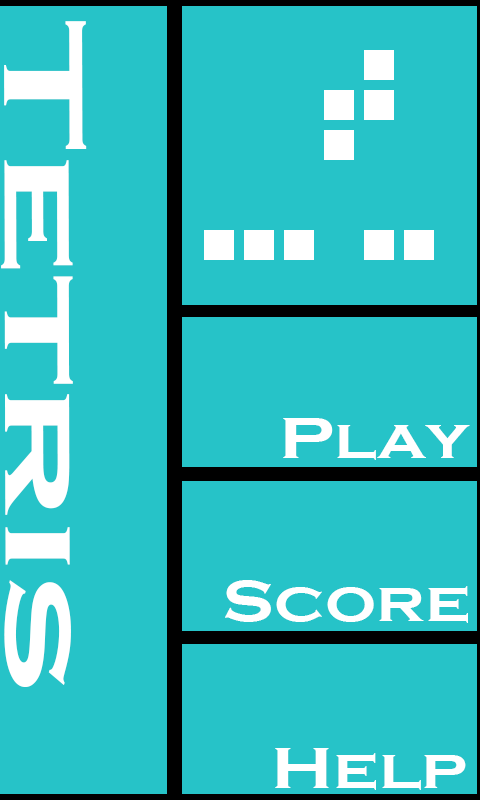
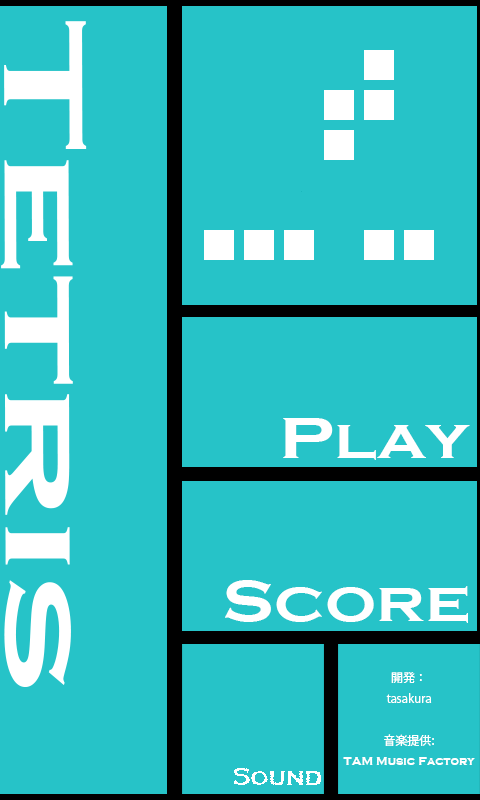
サウンドon,off機能追加

Changed region(s): [[0.5, 0.7812, 1.0, 1.0], [0.8125, 0.8125, 0.9062, 0.875]]

diff --git a/src/com/badlogic/androidgames/framework/game/TopMenuScreen.java b/src/com/badlogic/androidgames/framework/game/TopMenuScreen.java
@@ -3,6 +3,7 @@ package com.badlogic.androidgames.framework.game;
 import java.util.List;
 
 import android.graphics.Color;
+import android.util.Log;
 
 import com.badlogic.androidgames.framework.Game;
 import com.badlogic.androidgames.framework.Graphics;
@@ -13,7 +14,7 @@ public class TopMenuScreen extends Screen {
 
 	public TopMenuScreen(Game game) {
 		super(game);
-		Utils.soundEnabled = true;
+		Log.d("Flag", ""+Utils.soundEnabled);
 	}
 
 	@Override
@@ -22,7 +23,6 @@ public class TopMenuScreen extends Screen {
 		game.getInput().getKeyEvents();
 
 		int len = touchEvents.size();
-
 		for (int i = 0; i < len; i++) {
 			TouchEvent event = touchEvents.get(i);
 			if (event.type == TouchEvent.TOUCH_UP) {
@@ -36,9 +36,13 @@ public class TopMenuScreen extends Screen {
 					if (Utils.soundEnabled)
 						Assets.sound_enter.play(1);
 				}
-				if (inBounds(event, 183, 644, 290, 150)) {
-					if (Utils.soundEnabled)
+				if (inBounds(event, 183, 644, 142, 644)) {
+					if (Utils.soundEnabled) 
+						Utils.soundEnabled = false;
+					else {
+						Utils.soundEnabled = true;
 						Assets.sound_enter.play(1);
+					}
 				}
 			}
 		}
@@ -49,11 +53,15 @@ public class TopMenuScreen extends Screen {
 	public void present(float deltaTime) {
 		Graphics g = game.getGraphics();
 		g.drawPixmap(Assets.image_top, 0, 0);
-		
-		/*touch判定*/
-//		g.drawRect(180, 315, 300, 155, Color.RED, 100);
-//		g.drawRect(180, 481, 300, 155, Color.RED, 100);
-//		g.drawRect(180, 644, 300, 155, Color.RED, 100);
+		if (Utils.soundEnabled)
+			g.drawPixmap(Assets.sound_on, 210, 660);
+		else 
+			g.drawPixmap(Assets.sound_off, 210, 660);
+		/* touch判定 */
+		// g.drawRect(180, 315, 300, 155, Color.RED, 100);
+		// g.drawRect(180, 481, 300, 155, Color.RED, 100);
+		// g.drawRect(180, 644, 300, 155, Color.RED, 100);
+		// g.drawRect(183, 644, 142, 644, Color.RED, 100);
 	}
 
 	private boolean inBounds(TouchEvent event, int x, int y, int width,

diff --git a/src/com/badlogic/androidgames/framework/game/PlayScreen.java b/src/com/badlogic/androidgames/framework/game/PlayScreen.java
@@ -5,7 +5,6 @@ import java.util.Random;
 
 import android.graphics.Color;
 import android.graphics.Point;
-import android.util.Log;
 import android.view.MotionEvent;
 
 import com.badlogic.androidgames.framework.Game;
@@ -136,7 +135,6 @@ public class PlayScreen extends Screen {
 			}
 		}
 
-		world.update(deltaTime);
 		boolean isFixed = block.move(Block.DOWN, deltaTime);
 		if (isFixed) {
 			nextBlock[0] = nextBlock[1];
@@ -251,6 +249,12 @@ public class PlayScreen extends Screen {
 		for (int i = 0; i < list_score.length; i++)
 			g.drawPixmap(fonts_number[list_score[i]], x_score + (i * 45) + 10,
 					25);
+
+		// Line
+		for (int i = 0; i < 13; i++) {
+			g.drawLine(5, 120 + (39 * i), 471, 120 + (39 * i), 1, Color.WHITE);
+			g.drawLine(42 + (39 * i), 81, 42 + (39 * i), 625, 1, Color.WHITE);
+		}
 	}
 
 	private void drawReadyUI() {
@@ -262,6 +266,7 @@ public class PlayScreen extends Screen {
 		Graphics g = game.getGraphics();
 		world.draw(g);
 		block.draw(g);
+
 		if (world.isGameover())
 			state = GameState.GameOver;
 

diff --git a/src/com/badlogic/androidgames/framework/game/World.java b/src/com/badlogic/androidgames/framework/game/World.java
@@ -9,16 +9,12 @@ public class World {
 	static final int COL = 14; // 横
 	static final int ROW = 15; // 縦
 	static final int TILE_SIZE = 38; // マスのサイズ
-	static final int SCORE_INCREMENT = 10;
-	static final float TICK_INITIAL = 0.5f;
-	static float tick = TICK_INITIAL; // 更新速度
 	private int fields[][];
 	private int field_images[][];
 	private int[] blockColor_list;
 
 	public int score = 0;
 	public boolean gameOver = false;
-	private float tickTime = 0;
 	private double minus = 0.05;
 	private boolean flag_blockminus = false;
 
@@ -69,17 +65,6 @@ public class World {
 							blockColor_list[field_images[y][x]], 200);
 				}
 			}
-		}
-	}
-
-	public void update(float deltaTime) {
-		if (gameOver)
-			return;
-
-		tickTime += deltaTime;
-
-		while (tickTime > tick) {
-			tickTime -= tick;
 		}
 	}
 

diff --git a/src/com/badlogic/androidgames/framework/game/Utils.java b/src/com/badlogic/androidgames/framework/game/Utils.java
@@ -19,12 +19,14 @@ public class Utils {
 				+ "_id integer primary key autoincrement,"
 				+ "score integer default 0)";
 		if (files.CreateDBandTable(sql))
-			for (int i = 0; i < 5; i++) 
+			for (int i = 0; i < 5; i++)
 				addScore(files, 0);
 		BufferedReader in = null;
 		try {
-			in = new BufferedReader(new InputStreamReader(files.readSound(".tetris")));
+			in = new BufferedReader(new InputStreamReader(
+					files.readSound(".tetris")));
 			soundEnabled = Boolean.parseBoolean(in.readLine());
+			soundEnabled = true;
 		} catch (IOException e) {
 			// デフォルト設定があるのでエラーは無視
 		} catch (NumberFormatException e) {

diff --git a/src/com/badlogic/androidgames/framework/game/LoadingScreen.java b/src/com/badlogic/androidgames/framework/game/LoadingScreen.java
@@ -33,6 +33,8 @@ public class LoadingScreen extends Screen {
 		Assets.Resume_button = g.newPixmap("Resume_button.png", PixmapFormat.ARGB4444);
 		Assets.tap_image = g.newPixmap("tap.png", PixmapFormat.ARGB4444);
 		Assets.gameover_image = g.newPixmap("gameover.png", PixmapFormat.ARGB4444);
+		Assets.sound_on = g.newPixmap("sound_on.png", PixmapFormat.ARGB4444);
+		Assets.sound_off = g.newPixmap("sound_off.png", PixmapFormat.ARGB4444);
 		Assets.sound_down = game.getAudio().newSound("sound_down.mp3");
 		Assets.sound_enter = game.getAudio().newSound("sound_enter.mp3");
 		Assets.sound_turn = game.getAudio().newSound("sound_turn.mp3");

diff --git a/src/com/badlogic/androidgames/framework/game/Assets.java b/src/com/badlogic/androidgames/framework/game/Assets.java
@@ -23,6 +23,8 @@ public class Assets {
 	public static Pixmap Resume_button;
 	public static Pixmap tap_image;
 	public static Pixmap gameover_image;
+	public static Pixmap sound_on;
+	public static Pixmap sound_off;
 	
 	public static Sound sound_enter;
 	public static Sound sound_down;

diff --git a/src/com/badlogic/androidgames/framework/game/Block.java b/src/com/badlogic/androidgames/framework/game/Block.java
@@ -4,7 +4,6 @@ import com.badlogic.androidgames.framework.Graphics;
 
 import android.graphics.Color;
 import android.graphics.Point;
-import android.util.Log;
 
 public class Block {
 	public static final int ROW = 4;
